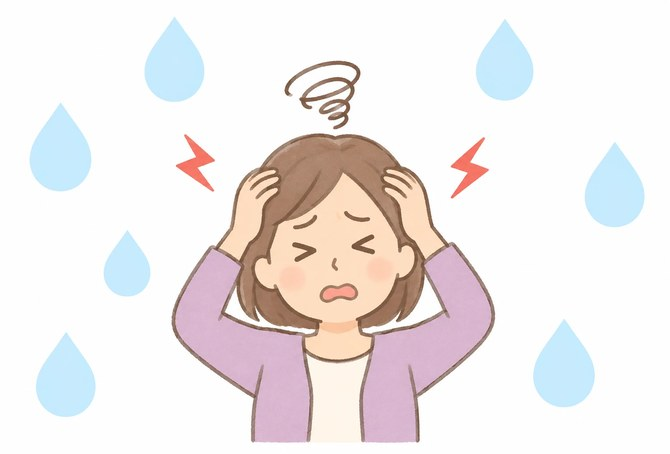
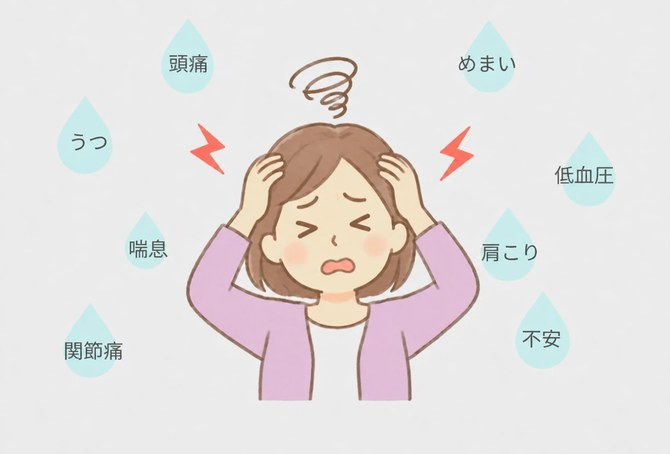
症状イラストを差し替え、HTMLで重ねていた症状名を削除
Claude-Session: https://claude.ai/code/session_016waN5Lc7J8KZ4LciTrTpYb

diff --git a/index.html b/index.html
@@ -7,7 +7,7 @@
 <link rel="preconnect" href="https://fonts.googleapis.com">
 <link rel="preconnect" href="https://fonts.gstatic.com" crossorigin>
 <link href="https://fonts.googleapis.com/css2?family=Great+Vibes&family=Klee+One:wght@600&family=Noto+Sans+JP:wght@400;700&family=Noto+Serif+JP:wght@400;500;600;700&display=swap" rel="stylesheet">
-<link rel="stylesheet" href="style.css?v=20261118e">
+<link rel="stylesheet" href="style.css?v=20261124a">
 </head>
 <body>
 <div class="lp">
@@ -79,19 +79,7 @@
     <p class="but__hand hand">ですが！</p>
     <h2 class="but__title"><span>毎日寝てるけど</span><br><span>なぜか不調が続く</span></h2>
     <p class="but__note">（慢性的な疲労・めまい・生理不順など）</p>
-    <div class="but__illust">
-      <img src="img/illust.jpg" alt="">
-      <ul class="but__symptoms">
-        <li style="left:26%;top:15%">頭痛</li>
-        <li style="left:75%;top:15%">めまい</li>
-        <li style="left:91%;top:42%">低血圧</li>
-        <li style="left:79%;top:61%">肩こり</li>
-        <li style="left:84%;top:82%">不安</li>
-        <li style="left:9.6%;top:34%">うつ</li>
-        <li style="left:19.4%;top:60%">喘息</li>
-        <li style="left:10.4%;top:85%">関節痛</li>
-      </ul>
-    </div>
+    <img class="but__illust" src="img/illust.jpg" alt="頭痛・めまい・低血圧・肩こり・不安・うつ・喘息・関節痛">
     <p class="but__hand2 hand">そんな方は</p>
     <div class="but__brush"><img src="img/brush-bg.jpg" alt=""><p>頭の脳疲労</p></div>
     <p class="but__tail">が溜まっているかも</p>

diff --git a/style.css b/style.css
@@ -381,16 +381,7 @@ a { color: inherit; text-decoration: none; }
 }
 .but__title span { background: #fff; padding: 0 .8rem; }
 .but__note { margin-top: .4rem; font-family: "Noto Serif JP", serif; font-size: 1.6rem; }
-.but__illust { position: relative; width: 33.5rem; margin: .6rem auto 0; }
-.but__illust img { display: block; width: 100%; mix-blend-mode: darken; }
-.but__symptoms { list-style: none; }
-.but__symptoms li {
-  position: absolute;
-  transform: translate(-50%, -50%);
-  color: #555;
-  font-size: 1.1rem;
-  white-space: nowrap;
-}
+.but__illust { width: 33.5rem; margin: .6rem auto 0; mix-blend-mode: darken; }
 .but__hand2 { margin-top: 1.8rem; font-size: 2.2rem; font-weight: 600; }
 .but__brush { position: relative; margin-top: .4rem; }
 .but__brush img { mix-blend-mode: darken; }
